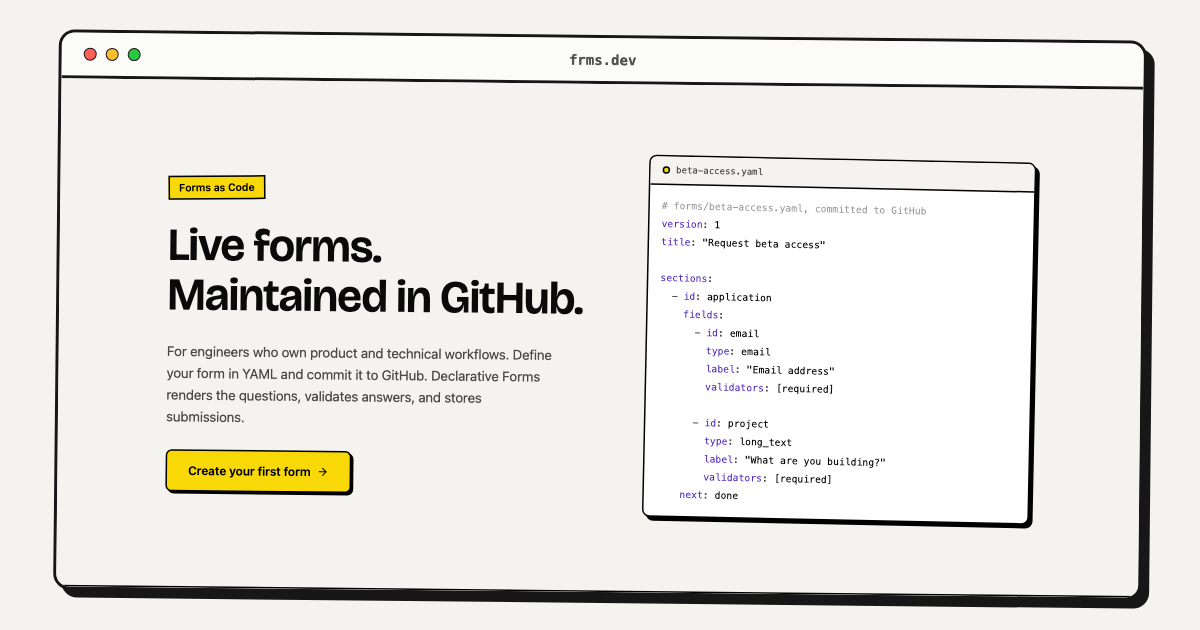
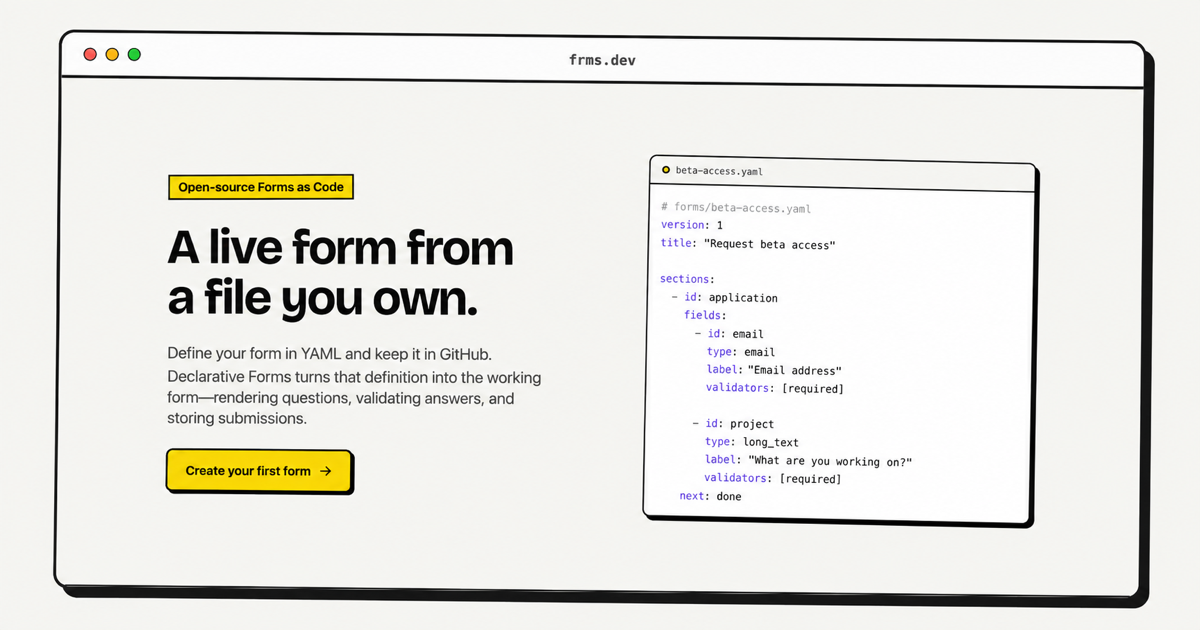
update copy

diff --git a/packages/core/src/views/landing.page.tsx b/packages/core/src/views/landing.page.tsx
@@ -10,7 +10,7 @@ const FEATURE_REQUEST_URL =
 const FONT_HREF =
   'https://fonts.googleapis.com/css2?family=Bricolage+Grotesque:opsz,wght@12..96,400..800&display=swap';
 
-const HERO_YAML = `# forms/beta-access.yaml, committed to GitHub
+const HERO_YAML = `# forms/beta-access.yaml
 version: 1
 title: "Request beta access"
 
@@ -24,26 +24,27 @@ sections:
 
       - id: project
         type: long_text
-        label: "What are you building?"
+        label: "What are you working on?"
         validators: [required]
+
     next: done
 `;
 
 const STEPS: Array<{ index: string; title: string; body: string }> = [
   {
     index: '01',
-    title: 'Define your form',
-    body: 'Start from an example and edit the YAML, or ask your coding agent to draft it using the published JSON Schema.',
+    title: 'Describe the form',
+    body: 'Start from an example, write the YAML yourself, or ask your coding agent to draft it against the published JSON Schema. Define the questions, validation, logic, and what should happen when the form is complete.',
   },
   {
     index: '02',
-    title: 'Push it to GitHub',
-    body: 'Commit the definition to a public GitHub repository. Keep its history and review changes through your existing pull request workflow.',
+    title: 'Push the definition',
+    body: 'Commit the file to GitHub. Form changes become ordinary versioned changes you can inspect, review, compare, and revert alongside the work they support.',
   },
   {
     index: '03',
-    title: 'Open and share it',
-    body: 'Open the matching path on frms.dev without .yaml. Use ?branch=draft to preview another pushed branch.',
+    title: 'Open the form',
+    body: 'Open the matching path on frms.dev and share it. Want to review a change first? Point the URL at another pushed branch and walk through the working form before you merge.',
   },
 ];
 
@@ -51,9 +52,9 @@ const URL_PARTS: Array<{ text: string; label: string | null }> = [
   { text: 'https://frms.dev/', label: null },
   { text: 'your-org', label: 'owner' },
   { text: '/', label: null },
-  { text: 'your-repo', label: 'repo' },
+  { text: 'your-repo', label: 'repository' },
   { text: '/', label: null },
-  { text: 'forms/beta-access', label: 'file path' },
+  { text: 'forms/beta-access', label: 'definition' },
   { text: '?branch=draft', label: 'branch' },
 ];
 
@@ -65,13 +66,13 @@ const FOOTER_COLUMNS: Array<{
     title: 'Product',
     links: [
       { href: `${GITHUB_URL}/blob/main/SCHEMA.md`, label: 'YAML reference' },
-      { href: GITHUB_URL, label: 'Source' },
+      { href: GITHUB_URL, label: 'Source code' },
     ],
   },
   {
     title: 'Project',
     links: [
-      { href: `${GITHUB_URL}/blob/main/LICENSE`, label: 'AGPL-3.0 licence' },
+      { href: `${GITHUB_URL}/blob/main/LICENSE`, label: 'AGPL-3.0 license' },
       { href: `${GITHUB_URL}/issues`, label: 'Issues' },
     ],
   },
@@ -183,7 +184,7 @@ function SiteNav(): React.JSX.Element {
             href={GITHUB_URL}
             rel="noreferrer"
           >
-            GitHub
+            View source
           </a>
           <ActionButton href={GET_STARTED_URL}>
             Create your first form
@@ -199,17 +200,23 @@ function Hero(): React.JSX.Element {
     <section className="border-b-2 border-ink bg-paper-alt px-6 py-20 md:px-10 md:py-24 lg:px-16">
       <div className="mx-auto grid w-full max-w-6xl items-center gap-14 lg:grid-cols-[minmax(0,1fr)_minmax(0,0.9fr)] lg:gap-16">
         <div className="flex flex-col items-start gap-7">
-          <h1 className="-rotate-1 border-2 border-ink bg-brand-yellow px-3 py-1 text-sm font-semibold text-ink">
-            Forms as Code
+          <span className="-rotate-1 border-2 border-ink bg-brand-yellow px-3 py-1 text-sm font-semibold text-ink">
+            Open-source Forms as Code
+          </span>
+          <h1 className="font-display text-[2.5rem] leading-[1.1] font-semibold tracking-[-0.02em] text-balance sm:text-5xl lg:text-6xl">
+            A live form from a file you own.
           </h1>
-          <p className="font-display text-[2.5rem] leading-[1.1] font-semibold tracking-[-0.02em] text-balance sm:text-5xl lg:text-6xl">
-            Live forms. Maintained in GitHub.
-          </p>
-          <p className="max-w-[46ch] text-lg leading-relaxed text-ink-muted">
-            For engineers who own product and technical workflows. Define your
-            form in YAML and commit it to GitHub. Declarative Forms renders the
-            questions, validates answers, and stores submissions.
-          </p>
+          <div className="flex max-w-[52ch] flex-col gap-4 text-lg leading-relaxed text-ink-muted">
+            <p>
+              Define your form in YAML and keep it in GitHub. Declarative Forms
+              turns that definition into the working form—rendering questions,
+              validating answers, and storing submissions.
+            </p>
+            <p>
+              Edit it yourself or with an AI agent. The source stays readable,
+              versioned, and under your control.
+            </p>
+          </div>
           <ActionButton href={GET_STARTED_URL} size="lg">
             Create your first form
             <ArrowRight className="size-4" />
@@ -253,11 +260,11 @@ function HowItWorks(): React.JSX.Element {
       <div className="mx-auto w-full max-w-6xl">
         <div className="flex flex-col gap-4">
           <h2 className="font-display text-3xl leading-[1.15] font-semibold tracking-[-0.02em] text-balance sm:text-4xl lg:text-[2.5rem]">
-            From a repository file to a working form.
+            One file. Three steps. A working form.
           </h2>
           <p className="max-w-[52ch] text-base leading-relaxed text-ink-muted">
-            Keep the form definition beside the system it supports. Review
-            changes in pull requests and preview a pushed branch before merging.
+            You define what the form should do. Declarative Forms supplies the
+            runtime that makes it work.
           </p>
         </div>
         <ol className="mt-12 grid gap-6 md:grid-cols-3">
@@ -309,20 +316,28 @@ function Tradeoff(): React.JSX.Element {
       <div className="mx-auto w-full max-w-6xl">
         <div className="flex max-w-[58ch] flex-col gap-6">
           <span className="inline-block w-fit -rotate-1 border-2 border-ink bg-brand-yellow px-3 py-1 text-sm font-semibold text-ink">
-            Your definition. Declarative Forms handles the rest.
+            You own the definition. Declarative Forms runs it.
           </span>
           <h2 className="font-display text-3xl leading-[1.15] font-semibold tracking-[-0.02em] text-balance sm:text-4xl lg:text-[2.5rem]">
-            Ship the form without building its backend.
+            Keep the control. Skip building the form system.
           </h2>
           <p className="text-lg leading-relaxed text-white/85">
-            Define multiple steps, conditional questions, validation rules, and
-            file uploads in one YAML file. Declarative Forms turns it into a
-            form people can complete.
+            Your definition can describe multi-step flows, conditional
+            questions, validation, uploads, localized content, completion
+            screens, and email or webhook connections.
           </p>
           <p className="text-lg leading-relaxed text-white/85">
-            Declarative Forms stores submissions. Add email or webhook
-            connections to send responses into your workflow, and customize the
-            completion screen to tell respondents what happens next.
+            Declarative Forms turns it into the experience respondents use,
+            validates their answers, and stores submissions separately from your
+            repository.
+          </p>
+          <p className="text-lg leading-relaxed text-white/85">
+            Use frms.dev when you want the hosted service. Self-host the
+            open-source stack when control over the infrastructure matters.
+          </p>
+          <p className="text-lg leading-relaxed text-white/85">
+            Either way, the form remains an explicit artifact you can inspect,
+            version, reuse, and automate.
           </p>
         </div>
       </div>
@@ -339,19 +354,18 @@ function FeatureRequests(): React.JSX.Element {
       <div className="mx-auto grid w-full max-w-6xl items-start gap-10 lg:grid-cols-2 lg:gap-16">
         <div className="flex flex-col items-start gap-6">
           <h2 className="font-display text-3xl leading-[1.15] font-semibold tracking-[-0.02em] text-balance sm:text-4xl lg:text-[2.5rem]">
-            Need something for your workflow?
+            This form is running on Declarative Forms.
           </h2>
           <p className="max-w-[46ch] text-lg leading-relaxed text-ink-muted">
-            Describe the feature and what it would help you do. If we accept
-            your request, we’ll build it within 72 hours.
+            The feature-request form beside this copy is not a mockup.
           </p>
-          <p className="max-w-[52ch] text-sm leading-relaxed text-ink-muted">
-            We’ll confirm acceptance and scope by email. The 72-hour window
-            starts when we accept.
+          <p className="max-w-[52ch] text-base leading-relaxed text-ink-muted">
+            Its YAML definition lives in the public repository. Declarative
+            Forms renders it here, stores its submissions, and a configured
+            email connection sends requests to our inbox.
           </p>
-          <p className="max-w-[52ch] text-sm leading-relaxed text-ink-muted">
-            Try the form here. Its YAML definition lives in this repository,
-            with an email connection configured to send requests to our inbox.
+          <p className="max-w-[52ch] text-base leading-relaxed text-ink-muted">
+            Open the form or inspect the definition that powers it.
           </p>
           <div className="flex flex-wrap gap-x-6 gap-y-3 text-sm font-medium">
             <a
@@ -360,7 +374,7 @@ function FeatureRequests(): React.JSX.Element {
               target="_blank"
               rel="noreferrer"
             >
-              Open the request form
+              Open the live form
             </a>
             <a
               className="underline underline-offset-4 hover:text-brand-purple"
@@ -368,8 +382,21 @@ function FeatureRequests(): React.JSX.Element {
               target="_blank"
               rel="noreferrer"
             >
-              View its YAML definition
+              Inspect its YAML
             </a>
+          </div>
+          <div className="mt-4 flex max-w-[52ch] flex-col gap-3 border-t-2 border-ink pt-6">
+            <h3 className="font-display text-xl font-semibold tracking-[-0.02em]">
+              Need something the product does not support yet?
+            </h3>
+            <p className="text-base leading-relaxed text-ink-muted">
+              Tell us what your workflow needs. If we accept the request, we’ll
+              build it within 72 hours.
+            </p>
+            <p className="text-sm leading-relaxed text-ink-muted">
+              We’ll confirm acceptance and scope by email. The 72-hour window
+              starts when we accept.
+            </p>
           </div>
         </div>
         <div className="overflow-hidden rounded-lg border-2 border-ink bg-white shadow-hard-lg">
@@ -390,11 +417,16 @@ function FinalCta(): React.JSX.Element {
     <section className="border-t-4 border-ink bg-brand-yellow-soft px-6 py-20 md:px-10 md:py-24 lg:px-16">
       <div className="mx-auto flex w-full max-w-6xl flex-col items-center gap-7 text-center">
         <h2 className="font-display text-3xl leading-[1.15] font-semibold tracking-[-0.02em] text-balance sm:text-4xl lg:text-[2.5rem]">
-          Put your next form in GitHub.
+          Your next form can start as a file.
         </h2>
         <p className="max-w-[48ch] text-lg leading-relaxed text-ink-muted">
-          Start with an example, push your YAML, and open the form on frms.dev.
-          Keep future changes in the same review workflow as your code.
+          Copy an example or ask your AI agent to draft the definition. Push it
+          to GitHub, open the matching frms.dev URL, and you have a form you can
+          continue to review, reuse, and automate.
+        </p>
+        <p className="max-w-[48ch] text-base leading-relaxed text-ink-muted">
+          No separate form-building workflow. No custom form application to
+          maintain.
         </p>
         <ActionButton href={GET_STARTED_URL} size="lg">
           Create your first form
@@ -413,7 +445,7 @@ function SiteFooter(): React.JSX.Element {
           <div className="flex flex-col gap-3">
             <BrandMark />
             <p className="max-w-[32ch] text-sm leading-relaxed text-ink-muted">
-              Forms as Code for engineering workflows.
+              Open-source Forms as Code. Hosted on frms.dev or self-hosted.
             </p>
           </div>
           {FOOTER_COLUMNS.map((column) => (

diff --git a/packages/core/src/app/page.tsx b/packages/core/src/app/page.tsx
@@ -5,28 +5,28 @@ const LANDING_OG_IMAGE = {
   url: '/og-image.png',
   width: 1200,
   height: 630,
-  alt: 'Declarative Forms hero showing a GitHub-maintained form definition and its YAML example.',
+  alt: 'Declarative Forms preview showing “A live form from a file you own.” beside a YAML form definition.',
 };
 
 export const metadata: Metadata = {
   alternates: { canonical: '/' },
-  title: { absolute: 'Forms as Code — Declarative Forms' },
+  title: { absolute: 'A live form from a file you own — Declarative Forms' },
   description:
-    'Keep your form definition in GitHub. Publish a live form with validation and submission storage.',
+    'Define your form in YAML and keep it in GitHub. Declarative Forms turns that definition into the working form—rendering questions, validating answers, and storing submissions.',
   openGraph: {
     siteName: 'Declarative Forms',
     url: '/',
-    title: 'Declarative Forms — Live forms, maintained in GitHub',
+    title: 'A live form from a file you own — Declarative Forms',
     description:
-      'Keep your form definition in GitHub. Publish a live form with validation and submission storage.',
+      'Define your form in YAML and keep it in GitHub. Declarative Forms turns that definition into the working form—rendering questions, validating answers, and storing submissions.',
     images: [LANDING_OG_IMAGE],
     type: 'website',
   },
   twitter: {
     card: 'summary_large_image',
-    title: 'Declarative Forms — Live forms, maintained in GitHub',
+    title: 'A live form from a file you own — Declarative Forms',
     description:
-      'Keep your form definition in GitHub. Publish a live form with validation and submission storage.',
+      'Define your form in YAML and keep it in GitHub. Declarative Forms turns that definition into the working form—rendering questions, validating answers, and storing submissions.',
     images: [LANDING_OG_IMAGE],
   },
 };

diff --git a/packages/core/src/app/layout.tsx b/packages/core/src/app/layout.tsx
@@ -12,7 +12,7 @@ import './globals.css';
 export const dynamic = 'force-dynamic';
 
 const SITE_DESCRIPTION =
-  'Keep your form definition in GitHub. Publish a live form with validation and submission storage.';
+  'Define your form in YAML and keep it in GitHub. Declarative Forms turns that definition into the working form—rendering questions, validating answers, and storing submissions.';
 
 export async function generateMetadata(): Promise<Metadata> {
   const requestHeaders = await headers();

diff --git a/packages/core/src/app/[slug]/opengraph-image.tsx b/packages/core/src/app/[slug]/opengraph-image.tsx
@@ -10,7 +10,7 @@ export const alt = SITE_NAME;
 export const size = { width: 1200, height: 630 };
 export const contentType = 'image/png';
 
-const FALLBACK_DESCRIPTION = 'Live forms. Maintained in GitHub.';
+const FALLBACK_DESCRIPTION = 'Open-source Forms as Code.';
 const DEFAULT_ACCENT = '#171717';
 const TITLE_LIMIT = 110;
 const DESCRIPTION_LIMIT = 120;

diff --git a/README.md b/README.md
@@ -1,11 +1,14 @@
 # Declarative Forms
 
-**Live forms, maintained in GitHub.**
+**Open-source Forms as Code.**
 
-Declarative Forms is a forms-as-code platform for engineers who maintain forms
-for products, open-source projects, and technical workflows. Define a form in
-YAML, push it to GitHub, and open it as a live, hosted form. Declarative Forms
-renders the questions, validates answers, and stores submissions.
+Define your form in YAML and keep it in GitHub. Declarative Forms turns that
+definition into the working form—rendering questions, validating answers, and
+storing submissions.
+
+Edit it yourself or with an AI agent. The source stays readable, versioned, and
+under your control. Use the hosted service on frms.dev or self-host the
+open-source stack.
 
 ## Why keep forms in Git?
 
